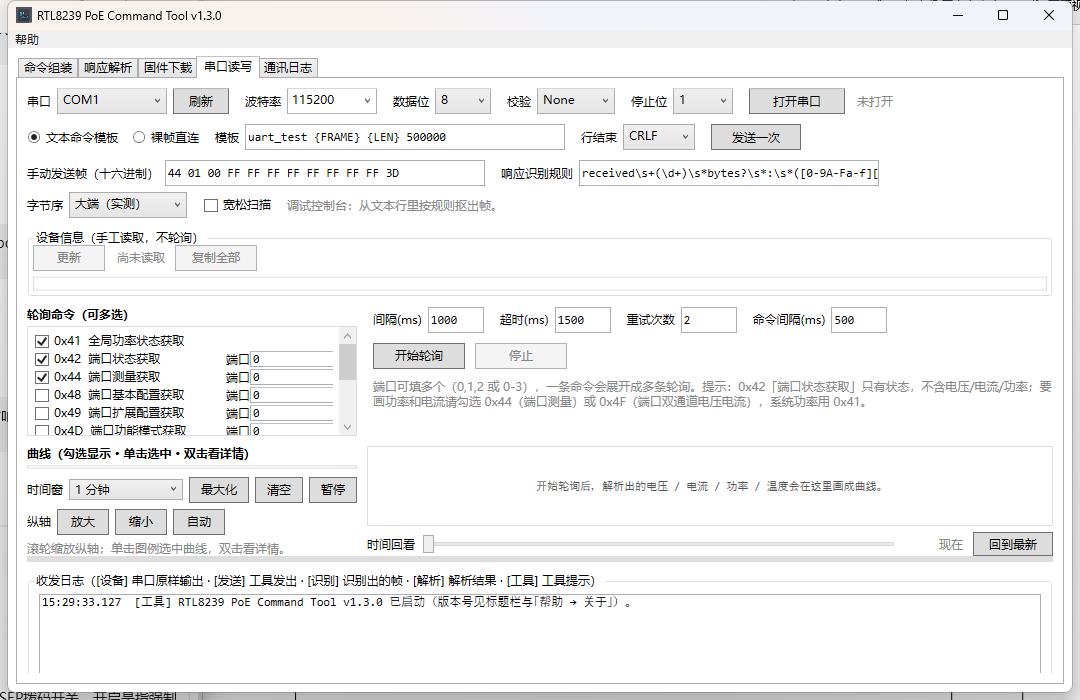
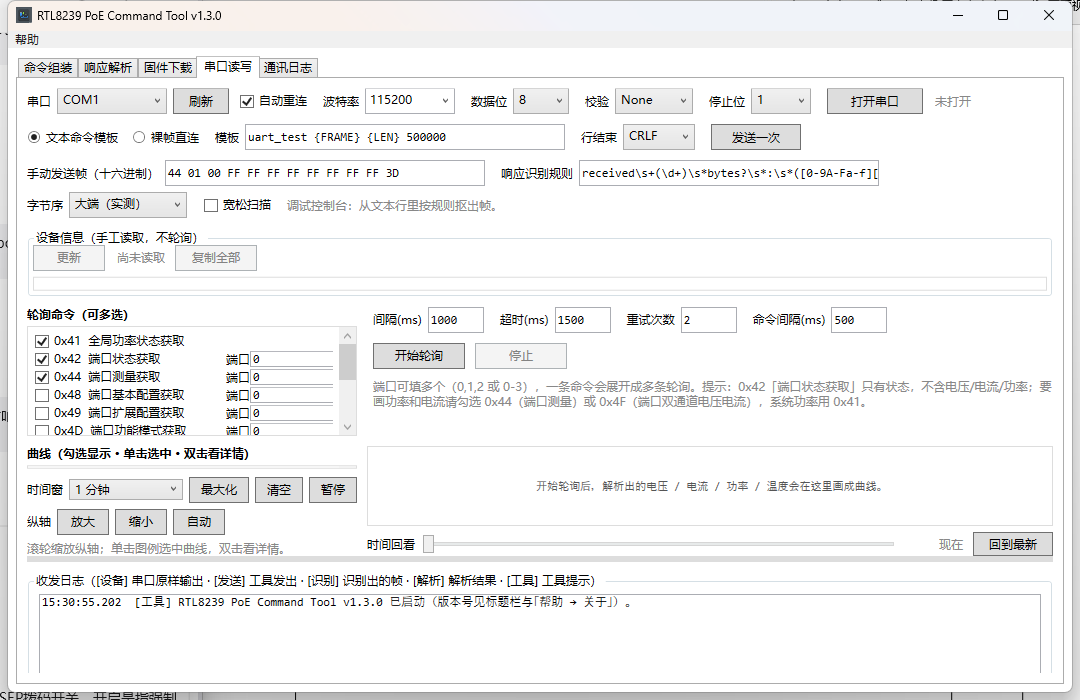
feat: 串口热插拔检测与自动重连（清单 15）
原先端口列表**只在启动时枚举一次**，之后要靠手点「刷新」——启动后才插上的
USB 转串口根本不会出现；拔线之后恢复也要手动两步（刷新 + 打开）。而且拔线时
在飞的读取会**烧满整个超时**（最长 60 秒）才失败。

现在：

* 每 2 秒看一次串口列表，有变化就刷新下拉框（尽量保住当前选择）并在日志里
  写明「新增 COM5；移除 COM3」；
* 链路**意外**断开时置一个标志，同一个端口重新出现就自动打开并重读设备信息；
* 「自动重连」复选框默认勾选，不想让它自己连就取消；
* **用户主动关串口时清掉标志**——那是明确意图，不该被自动连回来。

打开串口的流程抽成了 `OpenSerialAsync()`，重连走同一条路径——另写一遍的话
和主流程的差异早晚会越拉越大。

验证：Release 构建 0 错误 0 警告；断言 ALL PASS (827 checks)；启动存活；截图确认。

Changed region(s): [[0.2139, 0.12, 0.8861, 0.18], [0.0611, 0.84, 0.1222, 0.87]]

diff --git a/MainWindow.xaml b/MainWindow.xaml
@@ -227,6 +227,9 @@
                     <ComboBox x:Name="PortCombo" Width="110" Height="26" Margin="6,0,0,0" VerticalAlignment="Center"/>
                     <Button x:Name="RefreshPortsButton" Content="刷新" Width="56" Height="26" Margin="6,0,0,0"
                             VerticalAlignment="Center" Click="RefreshPorts_Click"/>
+                    <CheckBox x:Name="AutoReconnectCheck" Content="自动重连" IsChecked="True"
+                              VerticalAlignment="Center" Margin="10,0,0,0"
+                              ToolTip="拔线或链路出错导致串口关闭后，一旦同一个端口重新出现就自动打开并重读设备信息。默认开着；不想让它自己连就取消勾选。"/>
                     <TextBlock Text="波特率" VerticalAlignment="Center" Margin="16,0,0,0"/>
                     <ComboBox x:Name="BaudCombo" Width="90" Height="26" IsEditable="True" Margin="6,0,0,0" VerticalAlignment="Center"/>
                     <TextBlock Text="数据位" VerticalAlignment="Center" Margin="16,0,0,0"/>

diff --git a/MainWindow.SerialTab.cs b/MainWindow.SerialTab.cs
@@ -66,6 +66,7 @@ namespace WpfApp1
             _chartTimer.Tick += ChartTimer_Tick;
             _chartTimer.Start();
 
+            StartPortWatcher();
             Closing += SerialTab_Closing;
             UpdateSerialUi();
 
@@ -75,6 +76,7 @@ namespace WpfApp1
         private void BuildSerialOptionLists()
         {
             RefreshPortList();
+            _knownPorts = SafePortNames();
 
             var baudRates = new[] { 9600, 19200, 38400, 57600, 115200, 230400, 460800, 921600 };
             BaudCombo.ItemsSource = baudRates;
@@ -148,6 +150,186 @@ namespace WpfApp1
             }
         }
 
+        /// <summary>
+        /// 打开串口（按界面上的设置）。抽出来是为了让「自动重连」走同一条路径——
+        /// 重连要是自己另写一遍开串口流程，早晚会和这里的差异越拉越大。
+        /// </summary>
+        private async Task OpenSerialAsync()
+        {
+            _portSettings = ReadPortSettings();
+            ReadReceiveSettings();
+            _session.Open(_portSettings);
+
+            _lastOpenedPort = _portSettings.PortName;
+            _reconnectWanted = false;
+
+            AppendLog("已打开 " + _portSettings.Describe());
+            UpdateSerialUi();
+
+            // 刚连上先读一次设备信息：这不是轮询，只有一次往返，但能立刻暴露
+            // 「设备不认这些命令」这类问题，省得用户以为是按钮坏了。
+            await StartDeviceInfoRead();
+        }
+
+        // =================================================================
+        //  串口热插拔与自动重连
+        // =================================================================
+
+        /// <summary>上一次见到的串口列表，用来发现插拔。</summary>
+        private string[] _knownPorts = new string[0];
+
+        /// <summary>上一次成功打开的端口名；自动重连要认准同一个。</summary>
+        private string _lastOpenedPort;
+
+        /// <summary>链路意外断了，等着同一个端口重新出现。</summary>
+        private bool _reconnectWanted;
+
+        private DispatcherTimer _portWatchTimer;
+
+        private void StartPortWatcher()
+        {
+            _portWatchTimer = new DispatcherTimer { Interval = TimeSpan.FromSeconds(2) };
+            _portWatchTimer.Tick += PortWatch_Tick;
+            _portWatchTimer.Start();
+        }
+
+        /// <summary>
+        /// 每两秒看一次串口列表。
+        ///
+        /// 原先端口列表只在启动时枚举一次，之后要靠手点「刷新」——启动之后才插上的
+        /// USB 转串口根本不会出现。拔线之后的恢复也要手动两步（刷新 + 打开）。
+        /// </summary>
+        private async void PortWatch_Tick(object sender, EventArgs e)
+        {
+            try
+            {
+                string[] ports = SafePortNames();
+                if (!SamePorts(ports, _knownPorts))
+                {
+                    string[] added = Difference(ports, _knownPorts);
+                    string[] removed = Difference(_knownPorts, ports);
+                    _knownPorts = ports;
+
+                    RefreshPortList();      // 会尽量保住当前选择
+                    AppendLog("串口列表有变化：" + DescribePortDiff(added, removed));
+                }
+
+                await TryReconnectAsync(ports);
+            }
+            catch (Exception ex)
+            {
+                // 定时器的回调里不能往外抛
+                AppendLog("检测串口列表时出错：" + ex.Message);
+            }
+        }
+
+        private async Task TryReconnectAsync(string[] ports)
+        {
+            if (!_reconnectWanted || _session == null || _session.IsOpen)
+                return;
+
+            if (AutoReconnectCheck == null || AutoReconnectCheck.IsChecked != true)
+            {
+                _reconnectWanted = false;
+                return;
+            }
+
+            if (_lastOpenedPort == null || Array.IndexOf(ports, _lastOpenedPort) < 0)
+                return;     // 还没回来，继续等
+
+            _reconnectWanted = false;
+            AppendLog(string.Format("检测到 {0} 重新出现，正在自动重连…", _lastOpenedPort));
+
+            try
+            {
+                SelectPort(_lastOpenedPort);
+                await OpenSerialAsync();
+            }
+            catch (Exception ex)
+            {
+                AppendLog("自动重连失败：" + ex.Message + "（设备可能还没就绪，可手点「打开串口」重试）");
+            }
+        }
+
+        private void SelectPort(string portName)
+        {
+            if (PortCombo == null || portName == null)
+                return;
+
+            for (int i = 0; i < PortCombo.Items.Count; i++)
+            {
+                if (string.Equals(PortCombo.Items[i] as string, portName, StringComparison.OrdinalIgnoreCase))
+                {
+                    PortCombo.SelectedIndex = i;
+                    return;
+                }
+            }
+
+            PortCombo.Text = portName;
+        }
+
+        private static string[] SafePortNames()
+        {
+            try
+            {
+                return new SystemSerialTransport().GetPortNames();
+            }
+            catch (Exception)
+            {
+                return new string[0];
+            }
+        }
+
+        private static bool SamePorts(string[] left, string[] right)
+        {
+            if (left == null || right == null)
+                return false;
+            if (left.Length != right.Length)
+                return false;
+
+            for (int i = 0; i < left.Length; i++)
+            {
+                bool found = false;
+                for (int j = 0; j < right.Length && !found; j++)
+                    found = string.Equals(left[i], right[j], StringComparison.OrdinalIgnoreCase);
+                if (!found)
+                    return false;
+            }
+
+            return true;
+        }
+
+        private static string[] Difference(string[] from, string[] minus)
+        {
+            var result = new List<string>();
+            if (from == null)
+                return result.ToArray();
+
+            for (int i = 0; i < from.Length; i++)
+            {
+                bool present = false;
+                if (minus != null)
+                    for (int j = 0; j < minus.Length && !present; j++)
+                        present = string.Equals(from[i], minus[j], StringComparison.OrdinalIgnoreCase);
+
+                if (!present)
+                    result.Add(from[i]);
+            }
+
+            return result.ToArray();
+        }
+
+        private static string DescribePortDiff(string[] added, string[] removed)
+        {
+            var parts = new List<string>();
+            if (added != null && added.Length > 0)
+                parts.Add("新增 " + string.Join("、", added));
+            if (removed != null && removed.Length > 0)
+                parts.Add("移除 " + string.Join("、", removed));
+
+            return parts.Count == 0 ? "（无）" : string.Join("；", parts.ToArray());
+        }
+
         private async void OpenClose_Click(object sender, RoutedEventArgs e)
         {
             try
@@ -158,6 +340,7 @@ namespace WpfApp1
                     //    已经关掉的端口上一直等到超时。
                     CancelDeviceInfo();
                     CancelCommandSend();
+                    _reconnectWanted = false;   // 是用户主动关的，别自动连回来
 
                     // ② 状态同步改完再 await。这个处理器现在是 async 的，await 期间按钮还能点，
                     //    那时 IsOpen 若还是 true，下一次点击会被误判成「再关一次」而被吞掉。
@@ -173,15 +356,7 @@ namespace WpfApp1
                     return;
                 }
 
-                _portSettings = ReadPortSettings();
-                ReadReceiveSettings();
-                _session.Open(_portSettings);
-                AppendLog("已打开 " + _portSettings.Describe());
-                UpdateSerialUi();
-
-                // 刚连上先读一次设备信息：这不是轮询，只有一次往返，但能立刻暴露
-                // 「设备不认这些命令」这类问题，省得用户以为是按钮坏了。
-                await StartDeviceInfoRead();
+                await OpenSerialAsync();
             }
             catch (Exception ex)
             {
@@ -409,6 +584,8 @@ namespace WpfApp1
                 _logTimer.Stop();
             if (_chartTimer != null)
                 _chartTimer.Stop();
+            if (_portWatchTimer != null)
+                _portWatchTimer.Stop();
 
             // 先掐设备信息读取与命令组装页的发送，再停轮询：它们可能正持着事务锁在等回包，
             // 倒过来的话轮询取消后会卡在这把锁上多等一个超时。

diff --git a/MainWindow.SerialChart.cs b/MainWindow.SerialChart.cs
@@ -786,6 +786,9 @@ namespace WpfApp1
             {
                 StopPolling("串口链路出错，轮询已停止。");
                 UpdateSerialUi();
+
+                // 意外断开（拔线 / 链路出错）：如果这个端口再回来，自动重连
+                _reconnectWanted = true;
             }));
         }
 
